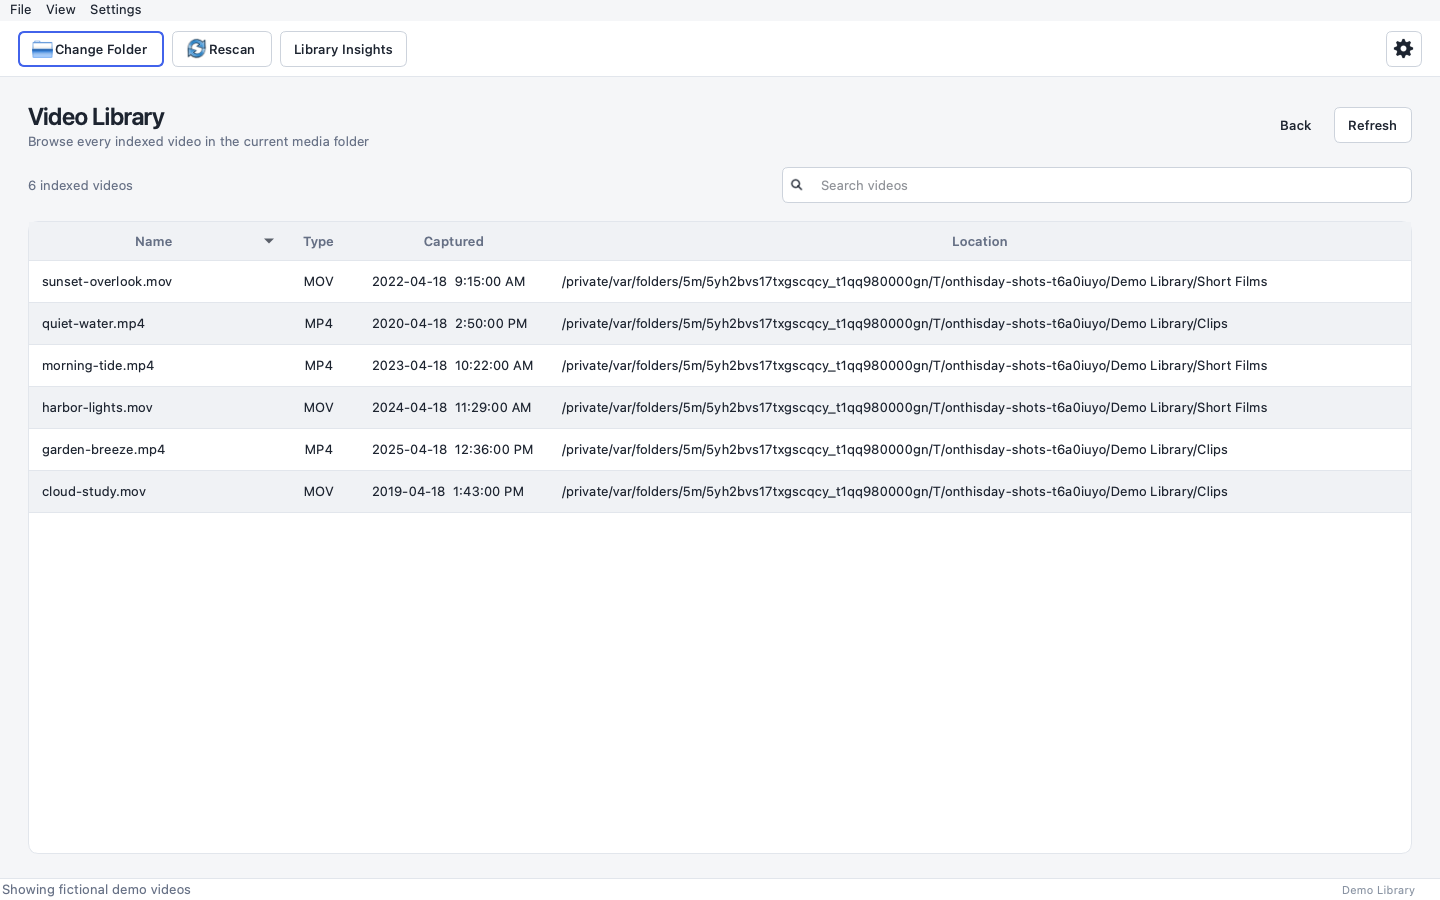
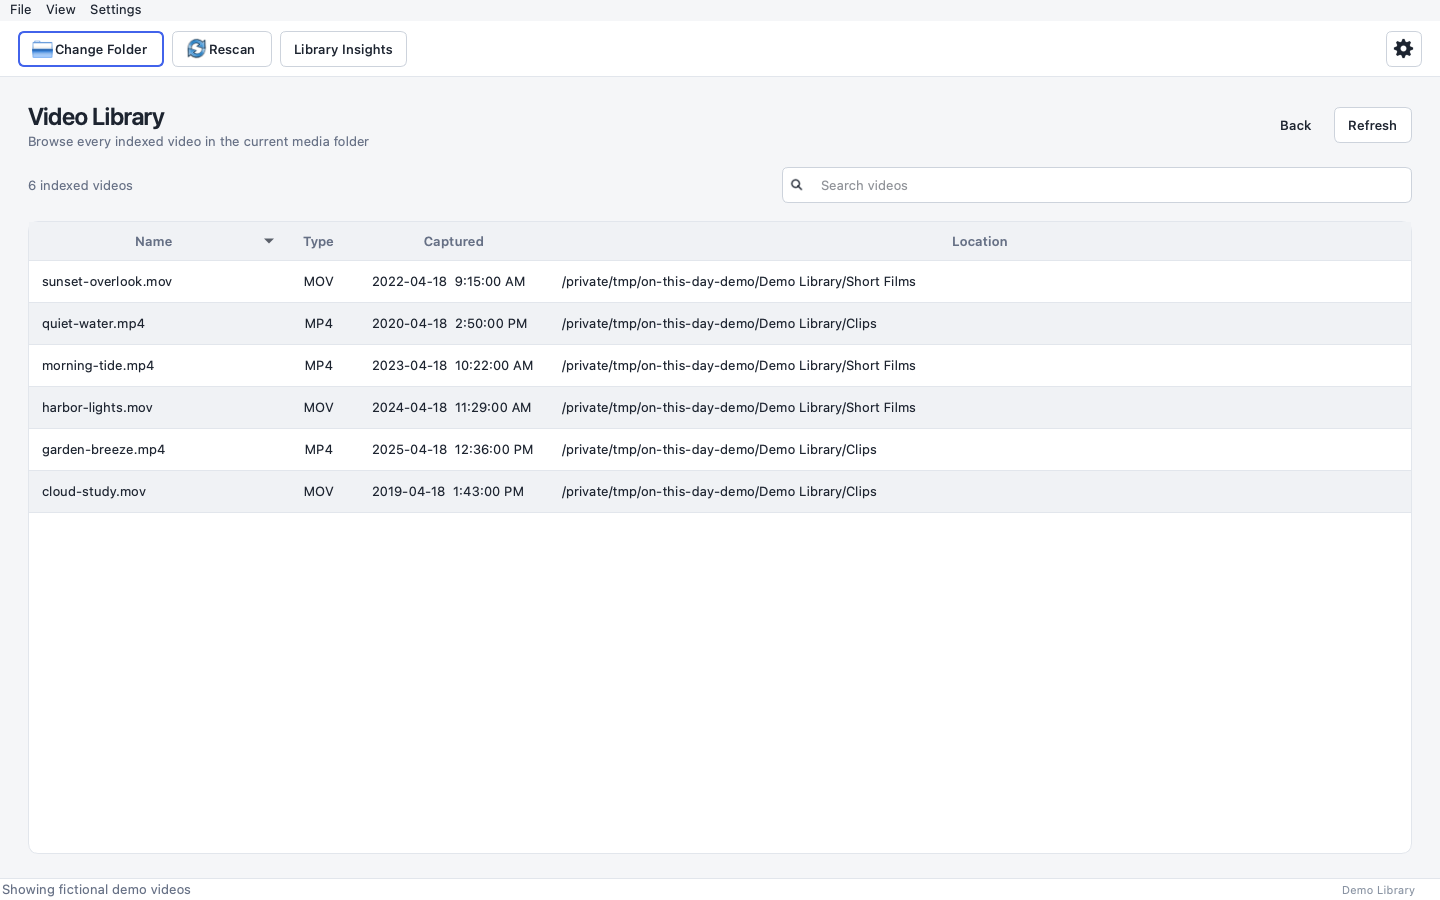
Update the README for the new UI, and keep the viewer's zoom keys
Screenshots now include the viewer with its Info panel and the Settings
dialog, and the demo library sits at a tidy made-up path, since the Info
panel shows it. Text that still described gallery cards, letterboxed
thumbnails and the Video Library button now matches the app.

The new tile-size shortcuts also took Ctrl+=/-/0 from the viewer, which
left photo zoom doing nothing while it was open; the menu actions are
disabled unless the gallery is showing.

Changed region(s): [[0.4375, 0.4044, 0.875, 0.4667], [0.4375, 0.3111, 0.875, 0.3733], [0.4375, 0.4978, 0.8438, 0.56]]

diff --git a/tools/make_screenshots.py b/tools/make_screenshots.py
@@ -20,8 +20,10 @@ WINDOW_SIZE = (1440, 900)
 DEMO_DAY = (4, 18)  # the day the gallery shows, so the pictures are reproducible
 LIBRARY_NAME = "Demo Library"
 
-# App data and the library live in a throwaway home, set before the app's constants are imported.
+# App data lives in a throwaway home, set before the app's constants are imported. The library
+# sits at a short, obviously made-up path, since the viewer's Info panel shows the full path.
 WORK = Path(tempfile.mkdtemp(prefix="onthisday-shots-"))
+DEMO_ROOT = Path("/tmp/on-this-day-demo") if os.name != "nt" else WORK / "demo"
 os.environ["HOME"] = os.environ["USERPROFILE"] = str(WORK)
 os.environ.setdefault("QT_QPA_PLATFORM", "offscreen")
 sys.path.insert(0, str(PROJECT))
@@ -116,14 +118,15 @@ def capture(window, app, name: str) -> None:
 
 def main() -> int:
     import json
+    import shutil
 
-    library = WORK / LIBRARY_NAME
+    library = DEMO_ROOT / LIBRARY_NAME
+    shutil.rmtree(DEMO_ROOT, ignore_errors=True)  # the tool owns this folder; start clean
     build_library(library)
     app_dir = WORK / ".on_this_day_photo_viewer"
     app_dir.mkdir(parents=True, exist_ok=True)
     # A relative folder keeps real paths out of the status bar; the app resolves it from here.
-    os.chdir(WORK)
-    (app_dir / "config.json").write_text(json.dumps({"photo_folder": LIBRARY_NAME, "theme": "light"}))
+    (app_dir / "config.json").write_text(json.dumps({"photo_folder": str(library), "theme": "light"}))
 
     sys.argv = ["app"]
     import app as application
@@ -166,6 +169,32 @@ def main() -> int:
     def insights() -> None:
         window.status.setText("Library Insights from fictional demo data")
         capture(window, qt_app, "library-insights")
+        window.show_gallery()
+        photo = next(record for record in window.gallery.records if not record.is_video)
+        window._open_from_gallery(photo)
+        window.viewer.info_button.setChecked(True)
+        QTimer.singleShot(2500, viewer)
+
+    def viewer() -> None:
+        window.status.setText("Viewing a fictional demo photo")
+        capture(window, qt_app, "viewer")
+        window.viewer.close_viewer()
+        QTimer.singleShot(400, settings)
+
+    def settings() -> None:
+        from onthisday.core.preview_cache import cache_usage
+        from onthisday.ui.dialogs import PreferencesDialog
+
+        dialog = PreferencesDialog(window.settings.theme, window.settings.save_previews,
+                                   window.settings.time_format, window,
+                                   auto_rescan=window.settings.auto_rescan,
+                                   preview_quality=window.settings.preview_quality)
+        dialog.set_cache_usage(cache_usage())
+        dialog.show()
+        qt_app.processEvents()
+        dialog.grab().save(str(OUTPUT / "settings.png"))
+        print(f"Wrote {OUTPUT / 'settings.png'}")
+        dialog.close()
         window.close()
         qt_app.quit()
 

diff --git a/onthisday/ui/main_window.py b/onthisday/ui/main_window.py
@@ -119,6 +119,7 @@ class MainWindow(QMainWindow):
         self.stop_event = threading.Event()
         self.active_scan_id = 0
         self.pending_index_start = False
+        self.tile_actions = []  # the View menu's tile-size actions, built with the menus
         # Scans started by the app itself (on return) stay quiet about an unplugged drive.
         self.scan_is_automatic = False
         # Starts at launch, so returning to the app re-checks the library only after a real while.
@@ -308,15 +309,16 @@ class MainWindow(QMainWindow):
         insights.triggered.connect(self.show_insights)
         view_menu.addAction(insights)
         view_menu.addSeparator()
-        larger = QAction("Larger Tiles", self, shortcut=QKeySequence("Ctrl+="))
-        larger.triggered.connect(self.gallery.grid.zoom_in)
-        view_menu.addAction(larger)
-        smaller = QAction("Smaller Tiles", self, shortcut=QKeySequence("Ctrl+-"))
-        smaller.triggered.connect(self.gallery.grid.zoom_out)
-        view_menu.addAction(smaller)
-        default_tiles = QAction("Default Tile Size", self, shortcut=QKeySequence("Ctrl+0"))
-        default_tiles.triggered.connect(self.gallery.grid.reset_zoom)
-        view_menu.addAction(default_tiles)
+        # The viewer zooms the photo with the same keys, so these are turned off while it is open;
+        # a disabled action leaves the shortcut to the viewer instead of both swallowing it.
+        self.tile_actions = []
+        for title, keys, slot in (("Larger Tiles", "Ctrl+=", self.gallery.grid.zoom_in),
+                                  ("Smaller Tiles", "Ctrl+-", self.gallery.grid.zoom_out),
+                                  ("Default Tile Size", "Ctrl+0", self.gallery.grid.reset_zoom)):
+            action = QAction(title, self, shortcut=QKeySequence(keys))
+            action.triggered.connect(slot)
+            view_menu.addAction(action)
+            self.tile_actions.append(action)
         view_menu.addSeparator()
         search = QAction("Search Videos", self, shortcut=QKeySequence.StandardKey.Find)
         search.triggered.connect(self.focus_search)
@@ -498,6 +500,8 @@ class MainWindow(QMainWindow):
 
     def _page_changed(self, index: int) -> None:
         page = self.stack.widget(index)
+        for action in self.tile_actions:
+            action.setEnabled(page is self.gallery)
         self.date_navigation.setVisible(page is self.gallery)
         self.toolbar.setVisible(page is not self.viewer)
         if page is not self.viewer:

diff --git a/tests/test_gallery.py b/tests/test_gallery.py
@@ -19,6 +19,7 @@ from onthisday.core.gallery_layout import (
 )
 from onthisday.core.models import MediaRecord
 from onthisday.ui.pages.gallery_page import GalleryPage
+from tests.test_auto_refresh import WindowTestCase
 
 APP = QApplication.instance() or QApplication([])
 
@@ -242,6 +243,31 @@ class GridTests(unittest.TestCase):
         self.assertEqual(self.page.results.currentIndex(), 1)
         self.assertEqual(self.page.empty.title_label.text(), "No photos for May 3")
         self.assertFalse(self.page.empty.button.isVisibleTo(self.page.empty))
+
+
+class TileShortcutTests(WindowTestCase):
+    """The tile-size keys are the viewer's photo-zoom keys, so only one owns them at a time."""
+
+    def enabled(self) -> list[bool]:
+        return [action.isEnabled() for action in self.window.tile_actions]
+
+    def test_the_viewer_keeps_the_zoom_keys_while_it_is_open(self):
+        self.assertEqual(self.enabled(), [True] * 3)  # the gallery is showing
+        self.window.stack.setCurrentWidget(self.window.viewer)
+        self.assertEqual(self.enabled(), [False] * 3, "both would swallow the shortcut, so neither acts")
+        self.window.stack.setCurrentWidget(self.window.gallery)
+        self.assertEqual(self.enabled(), [True] * 3)
+
+    def test_the_menu_actions_resize_tiles(self):
+        larger, smaller, default = self.window.tile_actions
+        before = self.window.gallery.grid.tile_size
+        larger.trigger()
+        self.assertGreater(self.window.gallery.grid.tile_size, before)
+        smaller.trigger()
+        self.assertEqual(self.window.gallery.grid.tile_size, before)
+        larger.trigger()
+        default.trigger()
+        self.assertEqual(self.window.gallery.grid.tile_size, DEFAULT_TILE)
 
 
 if __name__ == "__main__":

diff --git a/README.md b/README.md
@@ -48,10 +48,17 @@ personal media, real library paths, or embedded metadata. Regenerate them with
 
 ### Date-based gallery
 
-Browse matching moments by year, switch between photos and videos, and manage an
-item directly from its gallery card.
+The day's photos and videos, grouped by year, as a grid of square tiles. Zoom the
+tiles larger or smaller, switch between photos and videos, and open any item full-window.
 
-![On This Day gallery with synthetic demo artwork](assets/screenshots/gallery.png)
+![On This Day gallery of square tiles, showing synthetic demo artwork grouped by year](assets/screenshots/gallery.png)
+
+### Viewer
+
+One item at a time, with zoom and pan, video playback, and an **Info** panel showing
+where its date came from, its dimensions, type, size and path.
+
+![The viewer showing a synthetic demo photo with the Info panel open](assets/screenshots/viewer.png)
 
 ### Library Insights
 
@@ -65,12 +72,20 @@ Search and sort indexed videos without leaving the desktop app.
 
 ![Video Library populated with fictional filenames and dates](assets/screenshots/video-library.png)
 
+### Settings
+
+Appearance, time format, the Video Library, automatic library checks, and how large
+saved previews are.
+
+![The Settings dialog showing appearance, time format, library and preview options](assets/screenshots/settings.png)
+
 ## How it works
 
 1. Choose the folder containing your photo and video library.
 2. The app recursively scans supported media and stores file details and detected
-   capture dates in a local SQLite index. High-resolution previews are cached for
-   sharp display, while compatible legacy thumbnails can appear as placeholders.
+   capture dates in a local SQLite index. A preview of each item is cached for sharp
+   display, at the size chosen in **Settings > Preview quality**; the other size stands
+   in while a preview is being made.
 3. The gallery queries that index for media captured on the selected month and day,
    then groups the results from newest to oldest year.
 4. Later scans reuse unchanged records, update changed files, and remove index
@@ -165,7 +180,7 @@ python app.py
 ```
 
 On first launch, choose a folder containing photos and videos. The selected folder,
-appearance preference, SQLite index, thumbnail cache, and application log are kept
+appearance preference, SQLite index, preview cache, and application log are kept
 in the local app-data directory described below.
 
 ### 5. Optional: add it to Applications (macOS) or the Start menu (Windows)
@@ -260,8 +275,9 @@ and buttons for **Info**, **Open in Default App** and **Move to Trash**.
   and codec. The panel stays open as you step through items; details are read only
   while it is open.
 
-**Photos** open with their EXIF rotation applied, fitted to the window. The gallery
-thumbnail appears at once, and a screen-sized version replaces it a moment later.
+**Photos** open with their EXIF rotation applied, fitted to the window, and whole: the
+square crop belongs to the gallery, not the viewer. The saved preview appears at once,
+and a screen-sized version replaces it a moment later.
 
 - **Zoom:** hold **⌘** and scroll, pinch on a trackpad, or press **⌘=** and **⌘−**.
   Zoom follows the pointer.
@@ -299,7 +315,7 @@ earliest calendar day, year, or month is selected consistently.
 
 ### Move media to Trash
 
-Each gallery card includes **Move to Trash**, and so does the viewer (**⌘⌫**). The
+Right-click a tile for **Move to Trash**; the viewer has a button and **⌘⌫**. The
 app shows the exact filename and requires confirmation before asking the operating
 system to move the original file to Trash. In the viewer, playback stops first so the
 file can be moved, and the next item is shown afterwards. After a successful move, the matching SQLite record and cached
@@ -427,18 +443,20 @@ onthisday/
 │   ├── gallery_layout.py Where the gallery's year headings and square tiles go
 │   ├── indexer.py        Recursive, incremental, parallel media indexing
 │   ├── live_photos.py    Pairs a Live Photo's still with its motion clip
-│   ├── media.py          Metadata detection, thumbnails, and viewer image decoding
+│   ├── media.py          Metadata detection, previews, and viewer image decoding
 │   ├── metadata.py       Details for the viewer's Info panel (dimensions, video codec, …)
 │   ├── models.py         Shared immutable data models
 │   ├── preview_cache.py  Size of the saved previews, and deleting them
 │   ├── progress.py       Time-left estimates for scans and saving previews
 │   ├── settings.py       Local configuration persistence
 │   ├── thumbnail_warmer.py Saves a preview of every item in the background
-│   ├── workqueue.py      Background job queues for thumbnails and the viewer
+│   ├── timeformat.py     12-hour and 24-hour capture times
+│   ├── workqueue.py      Background job queues for previews and the viewer
 │   └── zoom.py           Zoom and pan arithmetic for the photo viewer
 └── ui/
     ├── pages/            Gallery, Video Library, Library Insights, and the viewer
     ├── theme/            Color palettes, typography, metrics, and stylesheets
+    ├── notifications.py  "Scan finished" notifications for long background jobs
     ├── viewer_images.py  Background photo decoding with neighbour prefetch
     ├── viewer_metadata.py Background reading of Info panel details
     └── widgets/          Gallery grid, photo canvas, video player, Info panel, and shared controls

diff --git a/CHANGELOG.md b/CHANGELOG.md
@@ -9,7 +9,8 @@ With every change, bump `VERSION` in `onthisday/core/constants.py` and add an en
 - **Video Library** moved from the toolbar to **Settings > Video Library…**; **⌘⇧V** still opens it.
 - Settings no longer opens too short to show the explanations under each setting.
 - The Media by year chart in Library Insights fills its card instead of stopping half way across.
-- README screenshots are regenerated by `tools/make_screenshots.py`.
+- The viewer's photo zoom keys (**⌘=**, **⌘−**, **⌘0**) work again; the new tile-size shortcuts no longer take them while the viewer is open.
+- README screenshots are regenerated by `tools/make_screenshots.py`, which now also captures the viewer and Settings.
 
 ## 1.17.1 — 2026-11-17
 
